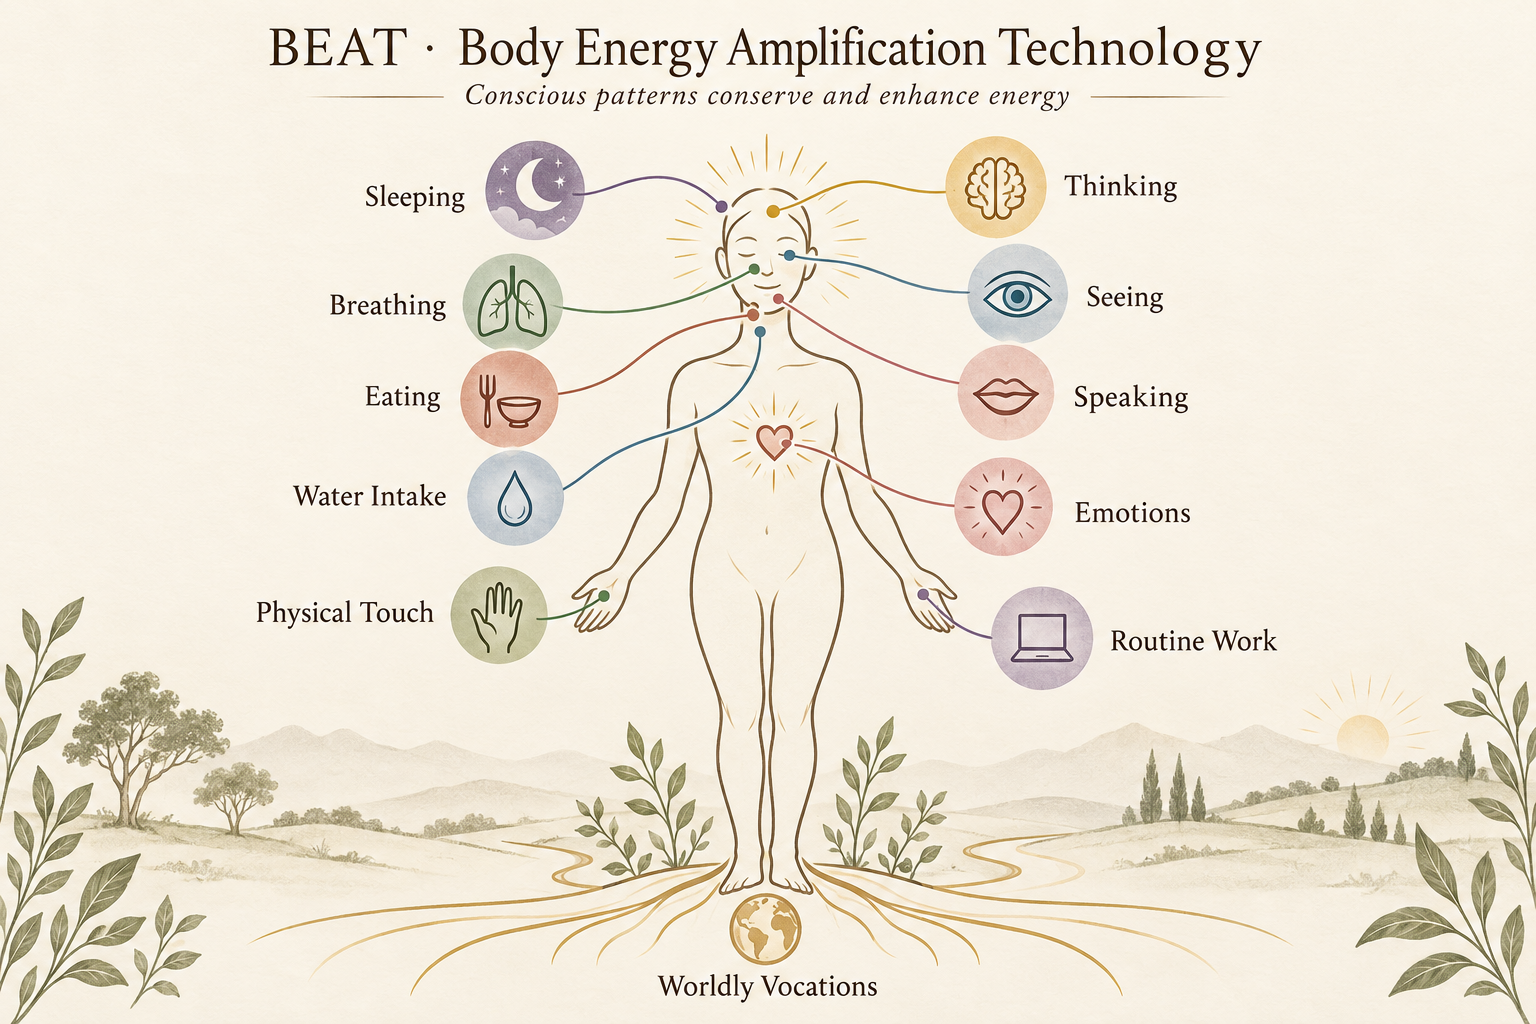
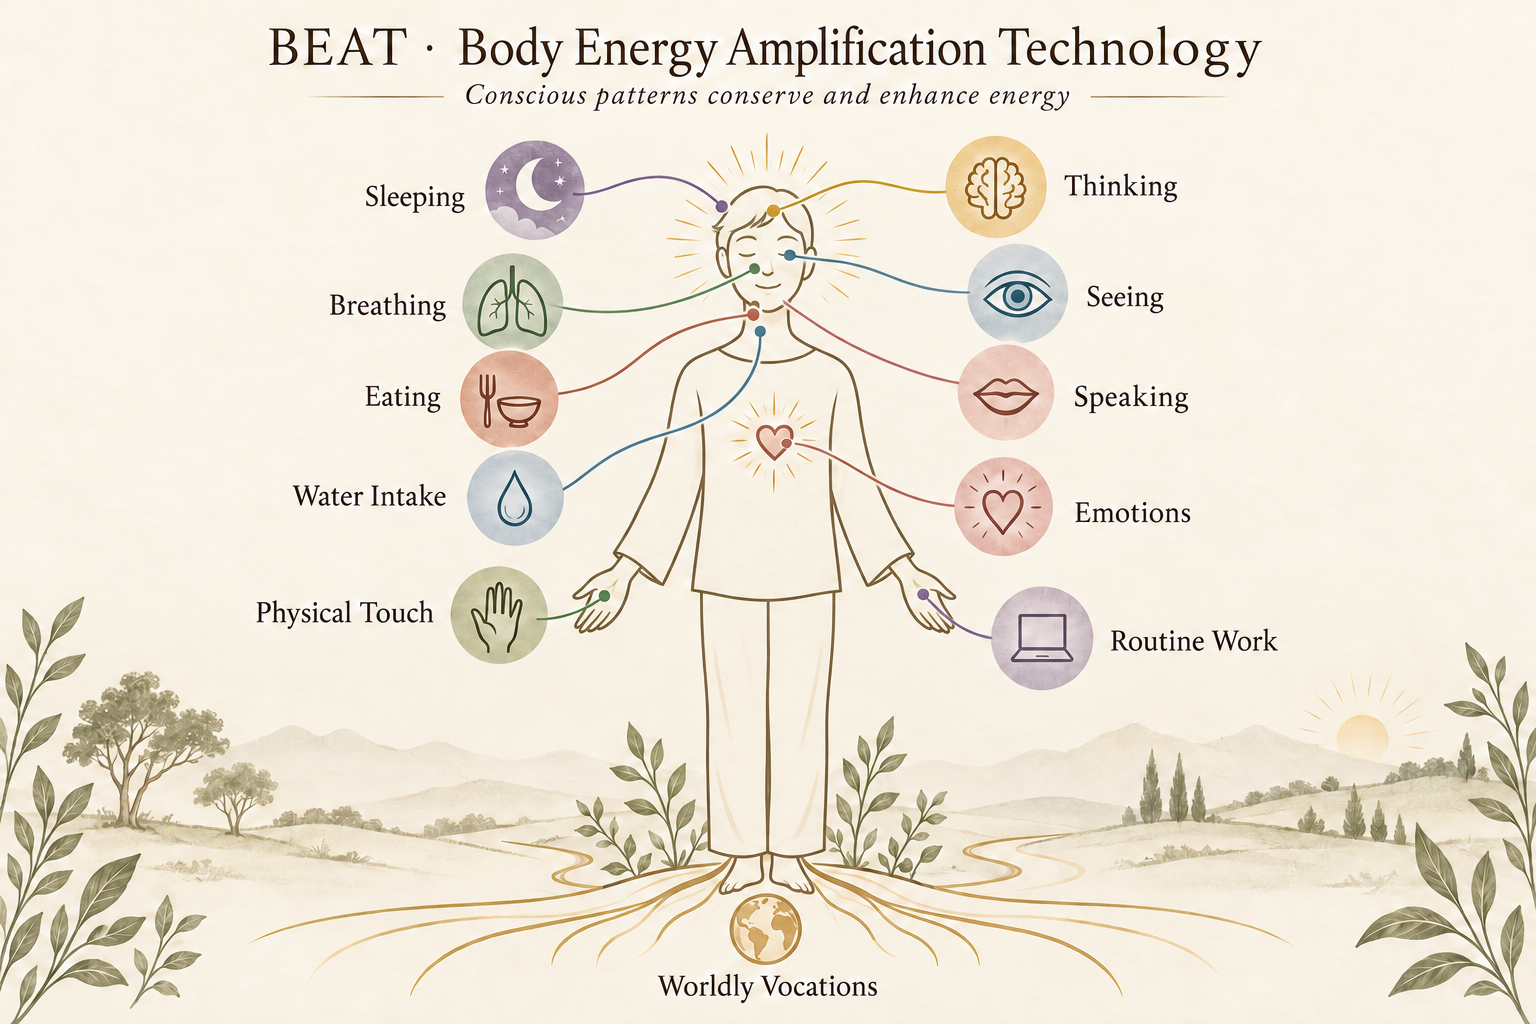
Use gender-neutral figure in BEAT map

diff --git a/programs/pssm/mbp/week-01/beat.html b/programs/pssm/mbp/week-01/beat.html
@@ -39,7 +39,7 @@
     <p class="principle">Conscious physical and emotional patterns conserve, enhance and sustain energy. Unconscious or purposeless patterns dissipate it.</p>
 
     <figure class="patterns-map">
-      <img src="programs/pssm/mbp/week-01/assets/beat-patterns-notes.png?v=20260927-2" alt="Refined BEAT pattern map connecting breathing, eating, water intake, physical touch, sleeping, thinking, seeing, speaking, emotions, routine work and worldly vocations to a central human figure.">
+      <img src="programs/pssm/mbp/week-01/assets/beat-patterns-notes.png?v=20260927-3" alt="Refined BEAT pattern map connecting breathing, eating, water intake, physical touch, sleeping, thinking, seeing, speaking, emotions, routine work and worldly vocations to a central gender-neutral human figure.">
       <figcaption>The eleven BEAT patterns—from personal habits and senses to daily work and worldly vocation.</figcaption>
     </figure>
 
